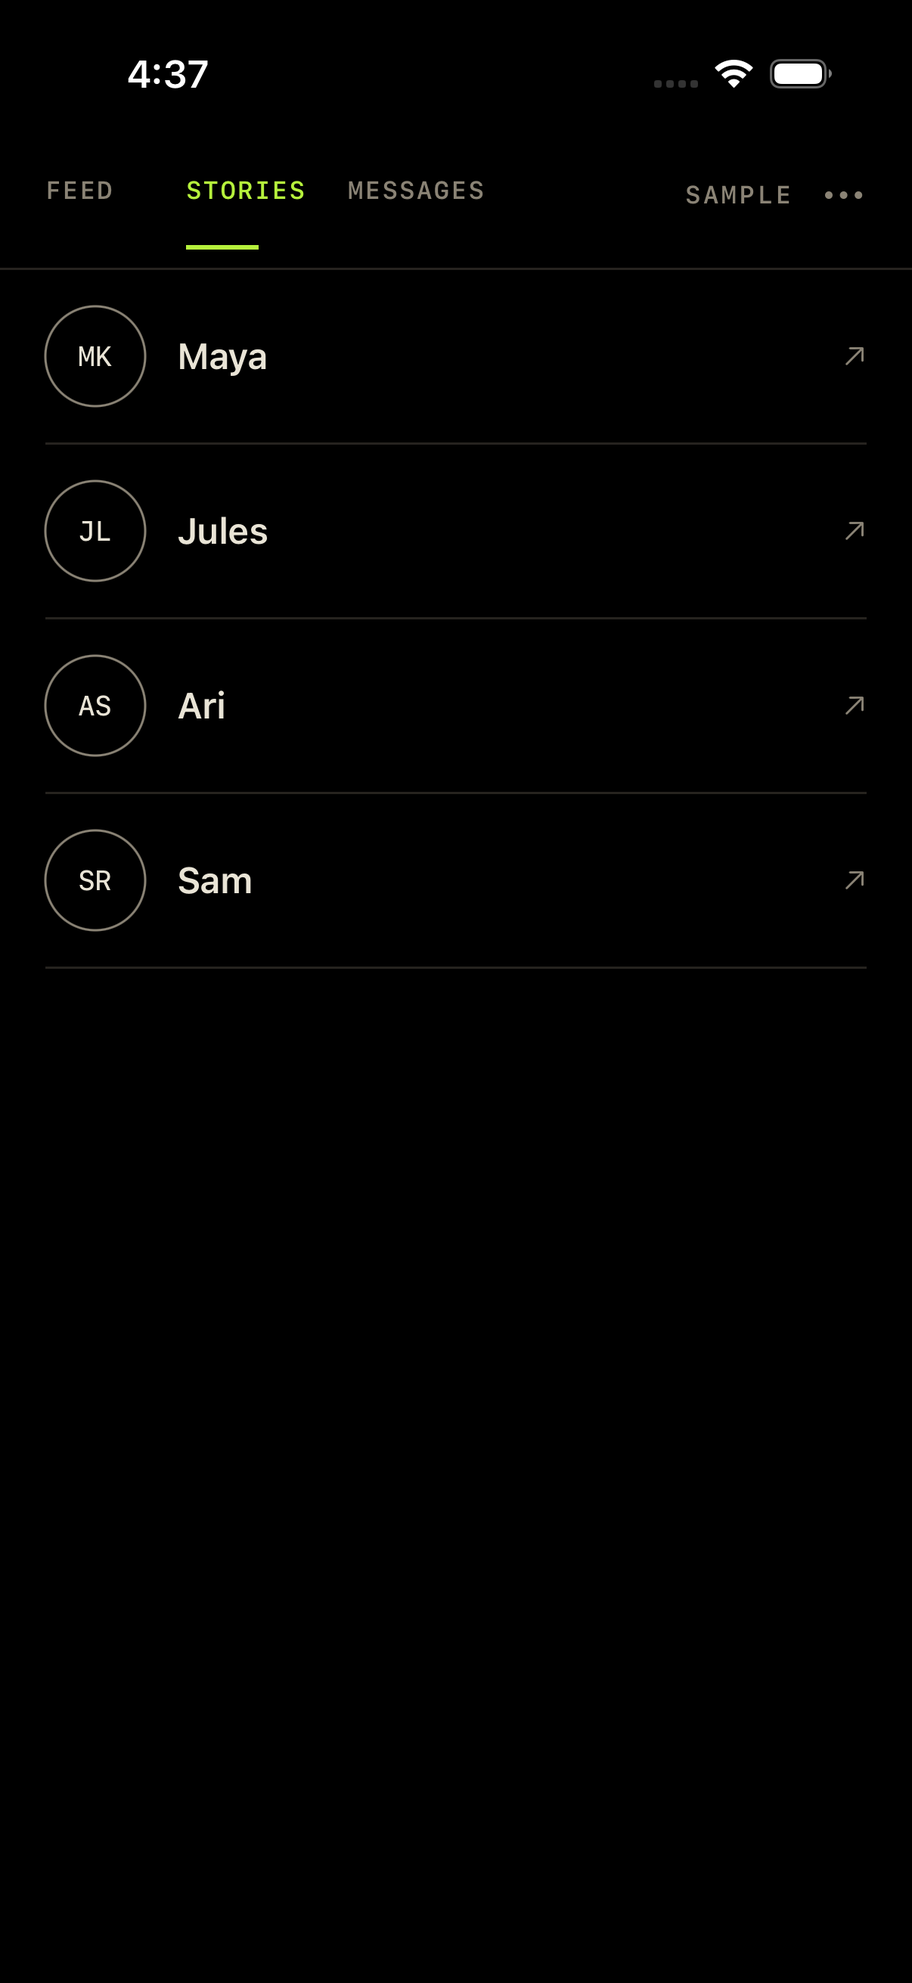
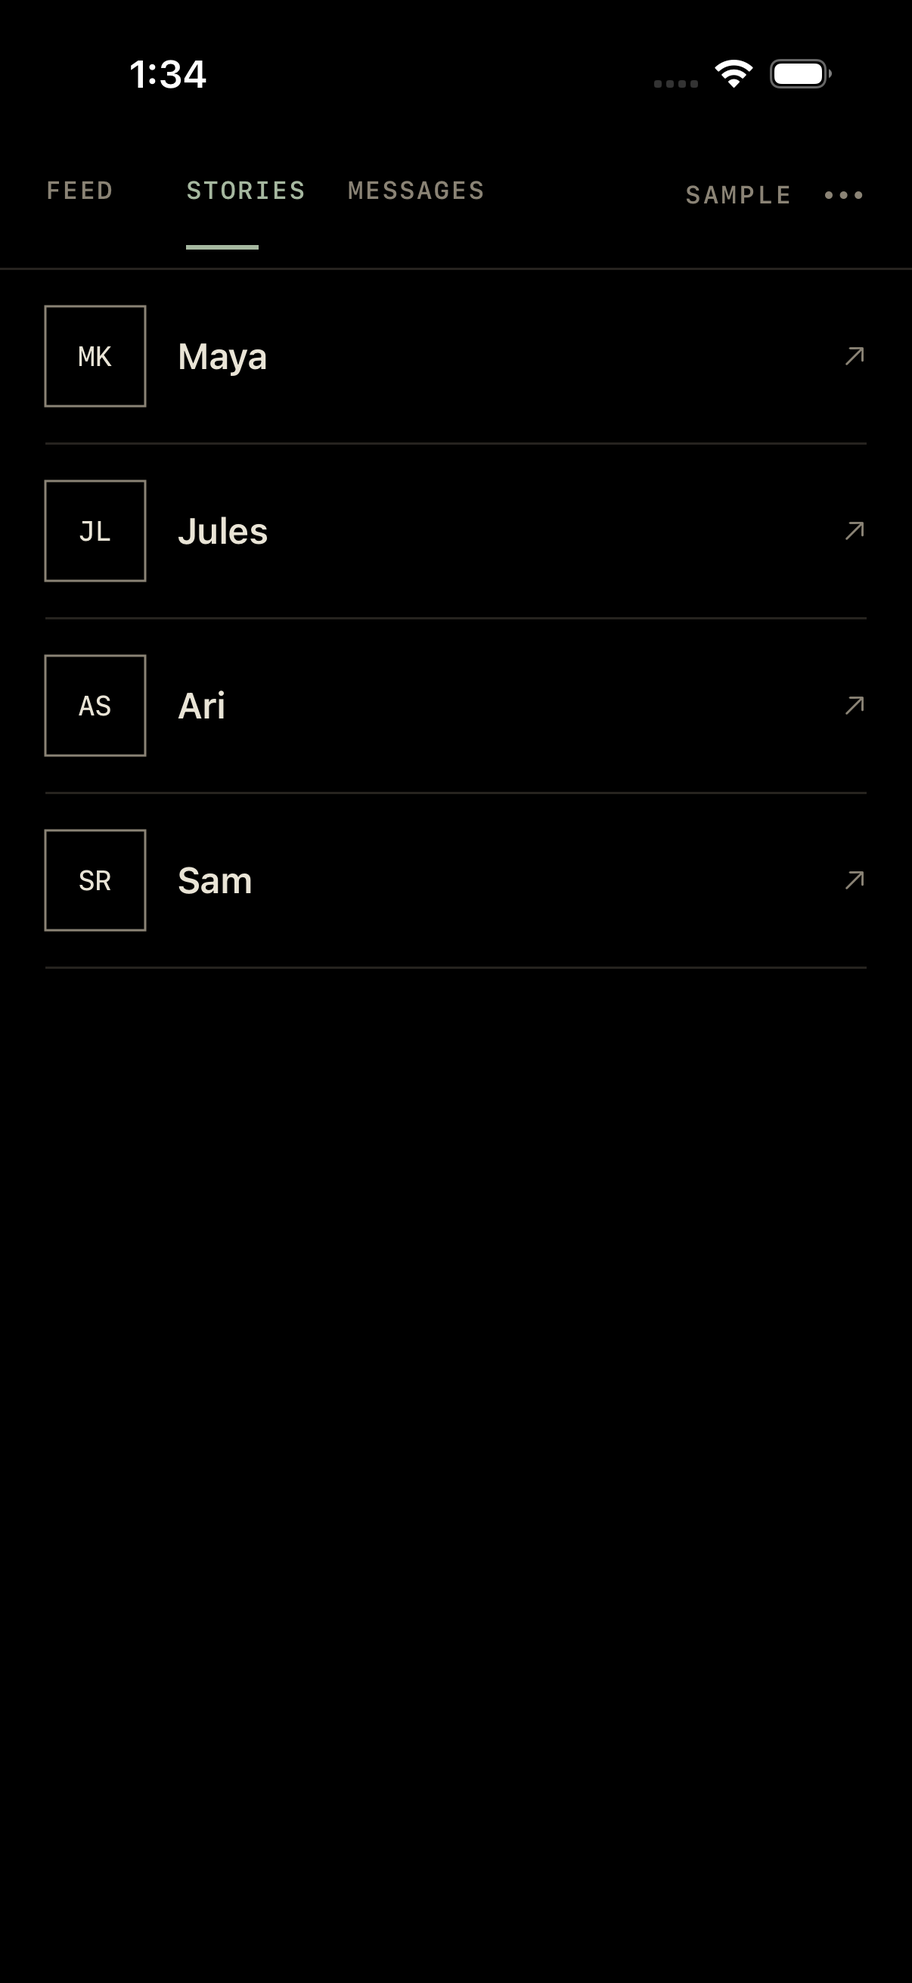
Use square swatches and sharp corners across Porch

diff --git a/Sources/NativeStoriesAndMessages.swift b/Sources/NativeStoriesAndMessages.swift
@@ -63,7 +63,7 @@ struct NativeStoryViewer: View {
                 }.padding(20).frame(minHeight:geometry.size.height)
             }
         }.background(PorchTheme.canvas).foregroundStyle(PorchTheme.bone)
-            .preferredColorScheme(.dark).presentationBackground(PorchTheme.canvas)
+            .porchSheet()
             .task(id:retry) {
                 loading = true; error = nil
                 do { let result = try await client.request("story",identifier:person.id); items = result.posts; error = result.error }
@@ -153,18 +153,26 @@ struct NativeConversation: View {
             }
             VStack(alignment:.leading,spacing:8) {
                 if unconfirmed {
-                    Text(LoadFailure.message("sendUnconfirmed")).font(.footnote).foregroundStyle(PorchTheme.muted)
-                    HStack {
-                        Button("Check conversation") { Task { await load() } }.disabled(loading)
-                        Spacer()
-                        Button("I checked") { confirmUnlock = true }
-                    }.font(.footnote).frame(minHeight:44)
+                    if confirmUnlock {
+                        PorchConfirmation(title: "Allow another message?",
+                            message: "The previous message may have arrived. This clears the warning and draft; it does not resend anything.",
+                            actionTitle: "Allow another message", confirm: {
+                                client.resolveSend(thread.id); draft = ""; sendError = nil; confirmUnlock = false
+                            }, cancel: { confirmUnlock = false })
+                    } else {
+                        Text(LoadFailure.message("sendUnconfirmed")).font(.footnote).foregroundStyle(PorchTheme.muted)
+                        HStack {
+                            Button("Check conversation") { Task { await load() } }.disabled(loading)
+                            Spacer()
+                            Button("I checked") { confirmUnlock = true }
+                        }.font(.footnote).frame(minHeight:44)
+                    }
                 } else if let sendError {
                     Text(LoadFailure.message(sendError)).font(.footnote).foregroundStyle(PorchTheme.muted)
                 } else if sent { Text("Sent").font(PorchTheme.utility).foregroundStyle(PorchTheme.muted).accessibilityIdentifier("message-sent") }
                 HStack(alignment:.bottom,spacing:12) {
                     TextField("Message",text:$draft,prompt:Text("Message").foregroundStyle(PorchTheme.muted),axis:.vertical).font(.body).lineLimit(1...4)
-                        .padding(12).background(PorchTheme.surface).accessibilityIdentifier("message-draft")
+                        .textFieldStyle(.plain).padding(12).background(PorchTheme.surface).accessibilityIdentifier("message-draft")
                     Button {
                         let text = draft
                         sent = false; sendError = nil
@@ -186,10 +194,7 @@ struct NativeConversation: View {
                 if draft.utf16.count > 1000 { Text("Up to 1,000 characters.").font(.footnote).foregroundStyle(PorchTheme.muted) }
             }.padding(16)
         }.background(PorchTheme.canvas).foregroundStyle(PorchTheme.bone).preferredColorScheme(.dark)
-            .presentationBackground(PorchTheme.canvas).interactiveDismissDisabled(sending)
-            .confirmationDialog("Allow another message?",isPresented:$confirmUnlock,titleVisibility:.visible) {
-                Button("Allow another message") { client.resolveSend(thread.id); draft = ""; sendError = nil }
-            } message: { Text("The previous message may have arrived. This clears the warning and draft; it does not resend anything.") }
+            .porchSheet().interactiveDismissDisabled(sending)
             .onChange(of:draft) { _, value in client.keepDraft(value,for:thread.id) }
             .task { draft = client.drafts[thread.id] ?? ""; await load() }
     }

diff --git a/Sources/SettingsView.swift b/Sources/SettingsView.swift
@@ -15,7 +15,13 @@ struct SettingsView: View {
         return "Porch \(version) (\(build))\niOS \(UIDevice.current.systemVersion)\n\(client.diagnostic)"
     }
     var body: some View {
-        NavigationStack {
+        VStack(spacing: 0) {
+            HStack {
+                Text("Settings").font(.headline).accessibilityAddTraits(.isHeader).accessibilityIdentifier("settings-title")
+                Spacer()
+                Button("Done") { dismiss() }.frame(minWidth: 44, minHeight: 44).disabled(clearing)
+            }.padding(.horizontal, 20)
+            PorchRule()
             ScrollView {
                 VStack(alignment:.leading,spacing:18) {
                     if model.mode == .instagram {
@@ -44,20 +50,20 @@ struct SettingsView: View {
                     PorchRule()
                     Button("End session") { client.close(); browser.suspend(); model.mode = .welcome; dismiss() }
                         .frame(minHeight:44).accessibilityLabel("Finish session")
-                    Button(clearing ? "Clearing…" : "Clear sign-in") { confirmClear = true }
-                        .foregroundStyle(PorchTheme.muted).frame(minHeight:44).disabled(clearing).accessibilityIdentifier("clear-data")
-                }.padding(20)
-            }.background(PorchTheme.canvas).foregroundStyle(PorchTheme.bone)
-                .navigationTitle("Settings").navigationBarTitleDisplayMode(.inline)
-                .toolbar { ToolbarItem(placement:.confirmationAction) { Button("Done") { dismiss() }.disabled(clearing) } }
-                .toolbarBackground(PorchTheme.canvas,for:.navigationBar).toolbarBackground(.visible,for:.navigationBar)
-                .interactiveDismissDisabled(clearing)
-                .confirmationDialog("Clear your Instagram sign-in?",isPresented:$confirmClear,titleVisibility:.visible) {
-                    Button("Clear website data",role:.destructive) {
-                        clearing = true; client.close(); client.clearJournal(); model.mode = .welcome
-                        Task { await browser.clearWebsiteData(); clearing = false; dismiss() }
+                    if confirmClear {
+                        PorchConfirmation(title: "Clear your Instagram sign-in?",
+                            message: "Signs you out of Porch and clears its website data.",
+                            actionTitle: "Clear website data", destructive: true, confirm: {
+                                confirmClear = false; clearing = true; client.close(); client.clearJournal(); model.mode = .welcome
+                                Task { await browser.clearWebsiteData(); clearing = false; dismiss() }
+                            }, cancel: { confirmClear = false })
+                    } else {
+                        Button(clearing ? "Clearing…" : "Clear sign-in") { confirmClear = true }
+                            .foregroundStyle(PorchTheme.muted).frame(minHeight:44).disabled(clearing).accessibilityIdentifier("clear-data")
                     }
-                } message: { Text("Signs you out of Porch and clears its website data.") }
-        }.presentationBackground(PorchTheme.canvas).preferredColorScheme(.dark).tint(accent)
+                }.padding(20)
+            }
+        }.background(PorchTheme.canvas).foregroundStyle(PorchTheme.bone)
+            .porchSheet().interactiveDismissDisabled(clearing).tint(accent)
     }
 }

diff --git a/Sources/Theme.swift b/Sources/Theme.swift
@@ -85,9 +85,45 @@ struct Avatar: View {
     var body: some View {
         Text(initials).font(.system(size: size * 0.28, weight: .medium, design: .monospaced))
             .foregroundStyle(PorchTheme.bone).frame(width: size, height: size)
-            .overlay(Circle().stroke(story ? PorchTheme.muted : PorchTheme.line, lineWidth: 1))
+            .overlay(Rectangle().stroke(story ? PorchTheme.muted : PorchTheme.line, lineWidth: 1))
     }
 }
 struct PorchRule: View {
     var body: some View { Rectangle().fill(PorchTheme.line).frame(height: 1).accessibilityHidden(true) }
+}
+
+extension View {
+    func porchSheet() -> some View {
+        self.presentationCornerRadius(0)
+            .presentationDragIndicator(.hidden)
+            .presentationBackground(PorchTheme.canvas)
+            .preferredColorScheme(.dark)
+            .buttonStyle(.plain)
+    }
+}
+
+struct PorchConfirmation: View {
+    @Environment(\.porchAccent) private var accent
+    let title: String
+    let message: String
+    let actionTitle: String
+    var destructive = false
+    let confirm: () -> Void
+    let cancel: () -> Void
+    var body: some View {
+        VStack(alignment: .leading, spacing: 8) {
+            Text(title).font(.headline).accessibilityAddTraits(.isHeader)
+            Text(message).font(.footnote).foregroundStyle(PorchTheme.muted)
+            ViewThatFits(in: .horizontal) {
+                HStack { actions }.fixedSize(horizontal: true, vertical: false)
+                VStack(alignment: .leading, spacing: 0) { actions }
+            }
+        }
+    }
+    @ViewBuilder private var actions: some View {
+        Button(actionTitle, role: destructive ? .destructive : nil, action: confirm)
+            .foregroundStyle(accent).frame(minWidth: 44, minHeight: 44, alignment: .leading).fixedSize(horizontal: false, vertical: true)
+        Button("Cancel", action: cancel).foregroundStyle(PorchTheme.muted)
+            .frame(minWidth: 44, minHeight: 44).padding(.horizontal, 12)
+    }
 }

diff --git a/UITests/PorchUITests.swift b/UITests/PorchUITests.swift
@@ -64,14 +64,24 @@ final class PorchUITests: XCTestCase {
         XCTAssertTrue(app.buttons["Next story"].waitForExistence(timeout: 3))
         app.buttons["Next story"].tap()
         XCTAssertTrue(app.staticTexts["Jules"].exists)
+        capture(app, "Sample story viewer")
         app.buttons["Close"].tap()
         XCTAssertTrue(app.buttons["Ari's sample story"].exists)
         app.buttons["tab-Messages"].tap()
         XCTAssertTrue(app.staticTexts["Coffee on Sunday?"].exists)
         capture(app, "Sample messages")
+        app.buttons.containing(.staticText, identifier: "Coffee on Sunday?").firstMatch.tap()
+        XCTAssertTrue(app.buttons["CLOSE"].waitForExistence(timeout: 3))
+        capture(app, "Sample conversation")
+        app.buttons["CLOSE"].tap()
         app.buttons["settings"].tap()
-        XCTAssertTrue(app.navigationBars["Settings"].waitForExistence(timeout: 3))
+        XCTAssertTrue(app.staticTexts["settings-title"].waitForExistence(timeout: 3))
         capture(app, "Settings")
+        app.buttons["clear-data"].tap()
+        XCTAssertTrue(app.buttons["Clear website data"].waitForExistence(timeout: 3))
+        capture(app, "Clear sign-in confirmation")
+        app.buttons["Cancel"].tap()
+        XCTAssertTrue(app.buttons["clear-data"].exists, "Cancelling must retain the current session")
         app.buttons["Finish session"].tap()
         XCTAssertTrue(app.buttons["connect"].waitForExistence(timeout: 3))
         capture(app, "Welcome")

diff --git a/Sources/ColorWelcomeView.swift b/Sources/ColorWelcomeView.swift
@@ -42,7 +42,7 @@ struct ColorChoices: View {
             HStack(spacing: 4) {
                 ForEach(PorchColor.allCases) { choice in
                     Button { selection = choice } label: {
-                        Circle().fill(choice.color).frame(width: 36, height: 36)
+                        Rectangle().fill(choice.color).frame(width: 36, height: 36)
                             .overlay {
                                 if selection == choice {
                                     Image(systemName: "checkmark").font(.system(size: 13, weight: .semibold))
@@ -50,7 +50,7 @@ struct ColorChoices: View {
                                 }
                             }
                             .padding(6)
-                            .overlay { Circle().stroke(selection == choice ? PorchTheme.bone : .clear, lineWidth: 1) }
+                            .overlay { Rectangle().stroke(selection == choice ? PorchTheme.bone : .clear, lineWidth: 1) }
                             .frame(maxWidth: .infinity, minHeight: 56).contentShape(Rectangle())
                     }.buttonStyle(.plain).accessibilityLabel(choice.name)
                         .accessibilityIdentifier("color-\(choice.rawValue)")

diff --git a/UITests/UATFlowsTests.swift b/UITests/UATFlowsTests.swift
@@ -31,6 +31,12 @@ final class UATFlowsTests: XCTestCase {
         app.buttons["send-message"].tap()
         XCTAssertTrue(app.buttons["Check conversation"].waitForExistence(timeout:5))
         XCTAssertFalse(app.buttons["send-message"].isEnabled)
+        app.buttons["I checked"].tap()
+        XCTAssertTrue(app.buttons["Allow another message"].waitForExistence(timeout:5))
+        app.buttons["Cancel"].tap()
+        XCTAssertTrue(app.buttons["Check conversation"].exists)
+        XCTAssertFalse(app.buttons["send-message"].isEnabled,"Cancelling must keep the unresolved send blocked")
+        XCTAssertEqual(draft.value as? String,"Only one copy","Cancelling must preserve the draft")
         app.buttons["Check conversation"].tap()
         XCTAssertTrue(app.buttons["Check conversation"].waitForNonExistence(timeout:5))
         XCTAssertFalse(app.buttons["send-message"].isEnabled,"Confirmed send must clear the old draft")

diff --git a/Sources/SampleViews.swift b/Sources/SampleViews.swift
@@ -86,7 +86,7 @@ struct SampleStory: View {
                 }.buttonStyle(PorchButtonStyle(filled: false))
                     .accessibilityLabel(current == 3 ? "All done" : "Next story")
             }.padding(20)
-        }.background(PorchTheme.canvas).foregroundStyle(PorchTheme.bone).preferredColorScheme(.dark)
+        }.background(PorchTheme.canvas).foregroundStyle(PorchTheme.bone).porchSheet()
     }
 }
 struct SampleInbox: View {
@@ -119,7 +119,7 @@ struct SampleInbox: View {
                 PorchRule()
                 Text(messages[selected ?? 0]).font(.body)
                 Eyebrow(text: "Sample · sending unavailable")
-            }.padding(20).presentationDetents([.medium]).presentationBackground(PorchTheme.canvas).foregroundStyle(PorchTheme.bone)
+            }.padding(20).presentationDetents([.medium]).porchSheet().foregroundStyle(PorchTheme.bone)
         }
     }
 }

diff --git a/Sources/NativeContent.swift b/Sources/NativeContent.swift
@@ -115,7 +115,7 @@ struct NativeMedia: View {
                         if playback.state == .failed { Text("Couldn't play this video.").font(.subheadline).padding(8).background(PorchTheme.canvas) }
                         Button { playback.start(url) } label: {
                             Image(systemName: playback.state == .failed ? "arrow.clockwise" : "play.fill").font(.title2).padding(20)
-                                .background(PorchTheme.canvas.opacity(0.85), in: Circle())
+                                .background(PorchTheme.canvas.opacity(0.85), in: Rectangle())
                         }.accessibilityLabel(playback.state == .failed ? "Retry video" : "Play video")
                             .accessibilityHint(media.alt?.isEmpty == false ? media.alt! : "Video preview")
                     }

diff --git a/Sources/ContentView.swift b/Sources/ContentView.swift
@@ -25,7 +25,7 @@ struct ContentView: View {
                 case .sample, .instagram: session
                 }
             }
-        }.foregroundStyle(PorchTheme.bone).preferredColorScheme(.dark).tint(accent)
+        }.foregroundStyle(PorchTheme.bone).preferredColorScheme(.dark).tint(accent).buttonStyle(.plain)
             .sheet(isPresented:$model.showSettings) { SettingsView(model:model,browser:browser,client:client,colorSelection:colorSelection) }
             .sheet(isPresented:$showSignIn,onDismiss:{
                 browser.suspend(); client.close()

diff --git a/Sources/InstagramBrowser.swift b/Sources/InstagramBrowser.swift
@@ -77,6 +77,6 @@ struct InstagramSignIn: View {
                 Button("Try again") { browser.connect() }.frame(minHeight:44)
                 Spacer()
             } else if let view = browser.webView { InstagramWebView(webView:view) }
-        }.background(PorchTheme.canvas).foregroundStyle(PorchTheme.bone).preferredColorScheme(.dark)
+        }.background(PorchTheme.canvas).foregroundStyle(PorchTheme.bone).porchSheet()
     }
 }

diff --git a/VERIFICATION.md b/VERIFICATION.md
@@ -1,10 +1,12 @@
 # Verification
 
-September 10, 2026. Porch **0.2 (4)**. Xcode 26.6 / Swift 6.3.3. Deployment target iOS 18; iOS 18 itself has not been tested.
+September 10, 2026. Porch **0.2 (5)**. Xcode 26.6 / Swift 6.3.3. Deployment target iOS 18; iOS 18 itself has not been tested.
 
 ## Simulator regression
 
-The offline Porch suite passed **22 test definitions / 38 expanded cases**, with no failures, on iPhone 17 Pro / iOS 26.5. Local result: `Test-Porch-2026.09.10_13-06-50--0400.xcresult`.
+The offline Porch suite passed **22 test definitions / 38 expanded cases**, with no failures, on iPhone 17 Pro / iOS 26.5. Local result: `Test-Porch-2026.09.10_13-34-00--0400.xcresult`.
+
+Build 5 applies the user's sharp-corner rule to swatches, selection outlines, story avatars, play-button backgrounds and app sheets. Settings uses a plain header and confirmations appear inline. The introduction, largest-text introduction, expanded color settings, stories, sample conversation, clear-sign-in confirmation and fictional native composer were visually inspected. The existing UI journeys now also verify that cancelling sign-in clearing retains the session, and cancelling the unresolved-send confirmation preserves the draft and send block. Only fictional transport was used for sending checks. [Color settings screenshot](docs/images/color-settings.png).
 
 The color introduction journey verifies first launch without a web view, selecting Mist, continuing, changing to Lilac in Settings, persistence through restart, no repeated introduction, all five swatches at the largest accessibility text size and continuing with the default color. The introduction, colored sample feed and expanded Settings were visually inspected. An inherited accessibility identifier initially shadowed the Settings swatch identifiers; removing it and querying the visible disclosure label resolved the failed test. A duplicate selected-color label in expanded Settings was removed after visual review.
 
@@ -20,7 +22,7 @@ Native AVPlayer tests prove time progression with a generated local video, stopp
 
 ## Read-only Instagram integration
 
-On build 2, the opt-in PorchAccountCheck suite passed **2 tests**, with no failures, on iPhone 17 Pro / iOS 26.5. Local result: `Test-PorchAccountCheck-2026.09.10_12-47-40--0400.xcresult`. The color-only changes did not exercise the live account again.
+On build 2, the opt-in PorchAccountCheck suite passed **2 tests**, with no failures, on iPhone 17 Pro / iOS 26.5. Local result: `Test-PorchAccountCheck-2026.09.10_12-47-40--0400.xcresult`. The appearance changes did not exercise the live account again.
 
 The existing signed-in account returned **3 Following posts, 1 followed story group containing 1 media item, and 0 accepted inbox threads**, with no adapter error. A real Instagram video loaded as playable and advanced at least 0.75 seconds through AVPlayer's asynchronous time observer. This replaces the earlier unsuccessful synchronous playback probe; audio output is not established by this muted check.
 
@@ -34,7 +36,9 @@ Build 2 was signed, installed and launched on the paired iPhone 14 Pro Max. That
 
 Builds 3 and 4 were signed and installed on the same phone. Launch was refused because the phone was locked, so the new introduction has simulator interaction evidence only. The local install helper initially selected an XCTest runner left in the build directory. Its application selection was corrected and fixture-tested to exclude test runners and refuse ambiguous app products; the subsequent installs selected `dev.alex.porch` correctly.
 
-`bash tools/build-uat.sh` successfully produced the unsigned device Release archive at `.build-uat/Porch.xcarchive`. The application reports version 0.2 / build 4 and is an arm64 device executable. The compiled Release binary excludes the appearance-reset and appearance-fixture flags, the DM fixture flag and the fixture transport symbol. Distribution and signing of this archive belong to the operator's own installation workflow.
+Build 5 was signed, installed and successfully launched on that iPhone. Its appearance was inspected in the simulator; no additional physical-device account or interaction checks were performed.
+
+`bash tools/build-uat.sh` successfully produced the unsigned device Release archive at `.build-uat/Porch.xcarchive`. The application reports version 0.2 / build 5 and is an arm64 device executable. The compiled Release binary excludes the appearance-reset and appearance-fixture flags, the DM fixture flag and the fixture transport symbol. Distribution and signing of this archive belong to the operator's own installation workflow.
 
 ## Remaining acceptance
 

diff --git a/DESIGN.md b/DESIGN.md
@@ -4,9 +4,11 @@ Porch serves people who already know Instagram and want less stimulation. Its co
 
 Monospaced utility labels and the short selection underline come from Plural's controls. Names and captions retain readable system typography, with the author above the media and the caption below. Content is left-aligned with 20-point text margins; photos can span the screen. The navigation stacks at large text sizes instead of truncating its labels. No extra masthead, counters or decorative panels compete with the content.
 
+Every Porch interface shape has sharp corners. Swatches, selection outlines, avatars, play-button backgrounds and message fields are rectangular. App sheets explicitly use a zero corner radius and no drag handle. Settings uses a plain header; confirmations appear inline with explicit confirm and cancel actions. This rule governs Porch's surfaces; Instagram authentication and OS-owned keyboards, sharing and playback controls retain their own rendering.
+
 ## Color introduction
 
-The first launch asks only “Choose a color.” Five named swatches, a selected checkmark and Continue sit on the black canvas. Sage is preselected so the user can continue without making a decision. There are no timers, automatic transitions, notifications, permissions or Instagram requests in this introduction. Its completion and the chosen color are stored locally. Settings → Color offers the same choices and applies changes immediately to navigation, actions and the native composer. The choice survives session finish and clearing Instagram sign-in.
+The first launch asks only “Choose a color.” Five named square swatches, a selected checkmark and Continue sit on the black canvas. Sage is preselected so the user can continue without making a decision. There are no timers, automatic transitions, notifications, permissions or Instagram requests in this introduction. Its completion and the chosen color are stored locally. Settings → Color offers the same choices and applies changes immediately to navigation, actions and the native composer. The choice survives session finish and clearing Instagram sign-in.
 
 | Choice | Accent |
 | --- | --- |
